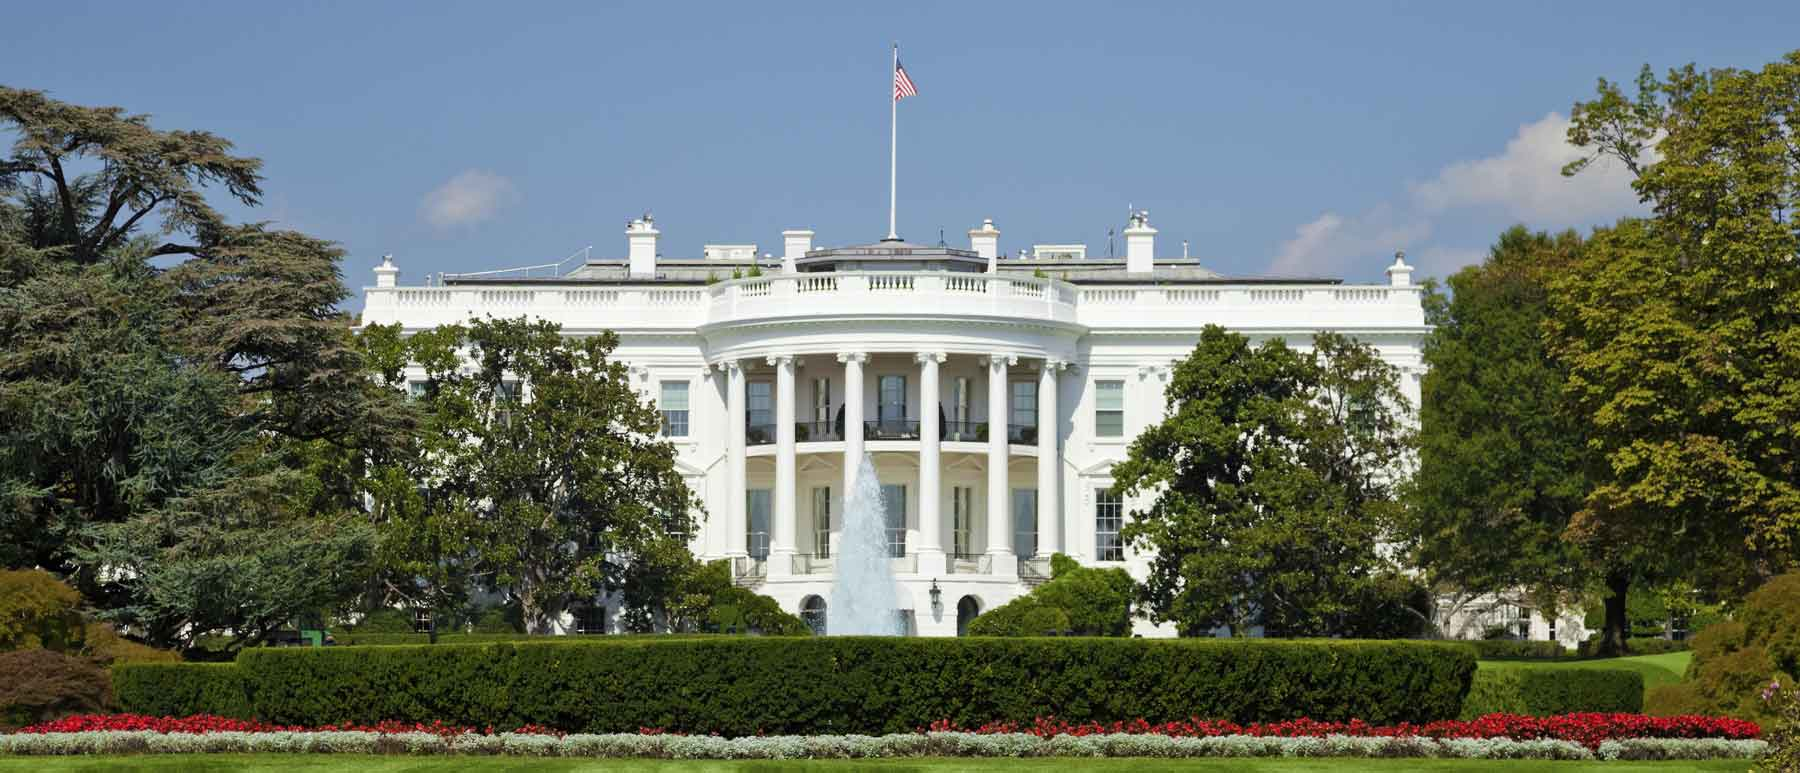
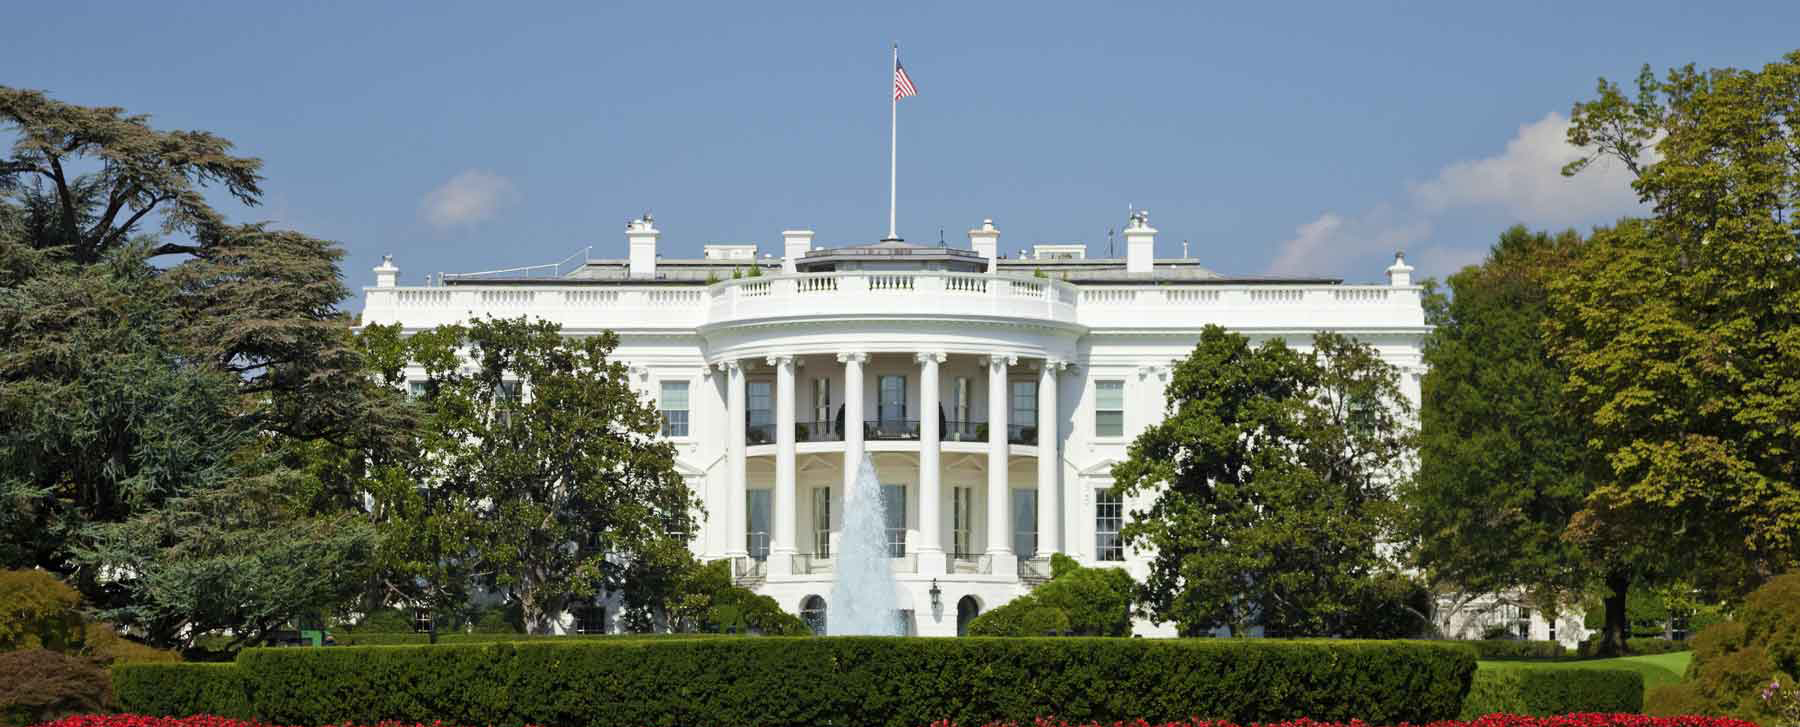
Fixed path to bg image on home
Also recropped so the page headline doesn’t rest along the edge of the
white house roof.

diff --git a/_sass/pages/_index.scss b/_sass/pages/_index.scss
@@ -1,5 +1,3 @@
-$site-baseurl: '/site/presidential-innovation-fellows/apps-gov';
-
 body {
   background-color: lighten($color-gray-light, 28);
   -webkit-font-smoothing: antialias;
@@ -20,25 +18,6 @@ ul {
     &::before {
       content: "";
     }
-  }
-}
-
-.usa-hero{
-  background-attachment: scroll;
-  background-image: url('#{$site-baseurl}/assets/img/wh-hero.jpg');
-  background-position: center 0;
-  background-repeat: no-repeat;
-  background-size: cover;
-  -webkit-background-size: cover;
-  -moz-background-size: cover;
-  -o-background-size: cover;
-  position: relative;
-  text-align:center;
-  min-height:550px;
-
-  .usa-hero-overlay {
-    background-color: rgba(0,0,0,0.5);
-    min-height:550px;
   }
 }
 
@@ -209,7 +188,7 @@ ul {
 
 .usa-hero{
   background-attachment: scroll;
-  background-image: url('#{$site-baseurl}/assets/img/wh-hero.jpg');
+  background-image: url('/assets/img/wh-hero.jpg');
   background-position: center 0;
   background-repeat: no-repeat;
   background-size: cover;
@@ -218,6 +197,12 @@ ul {
   -o-background-size: cover;
   position: relative;
   text-align:center;
+  min-height:550px;
+
+  .usa-hero-overlay {
+    background-color: rgba(0,0,0,0.5);
+    min-height:550px;
+  }
 
   h1,
   h2,
